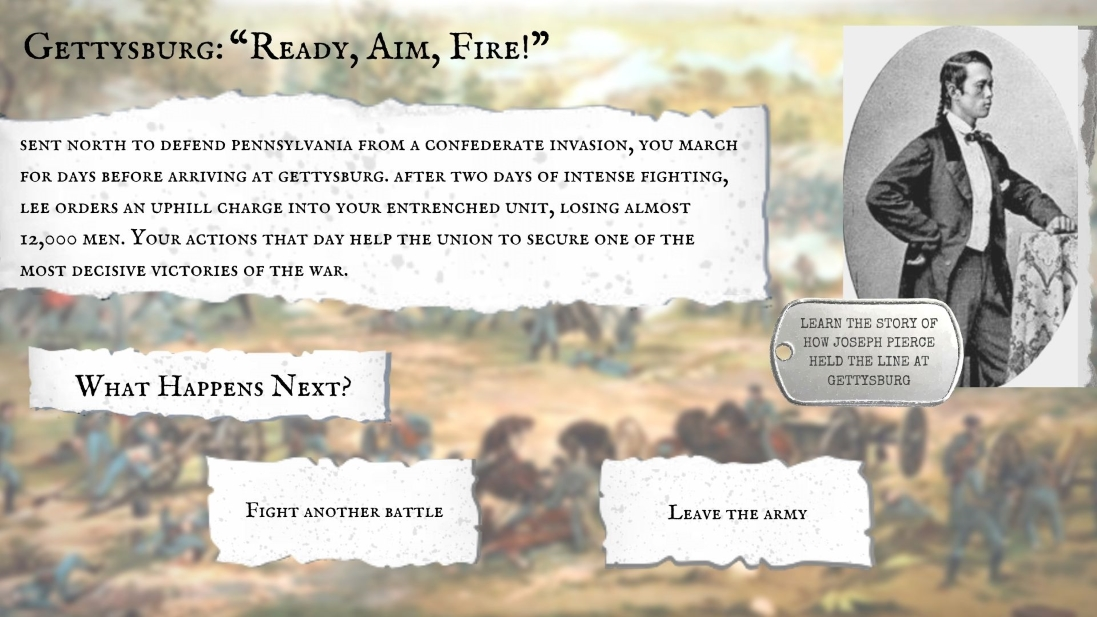
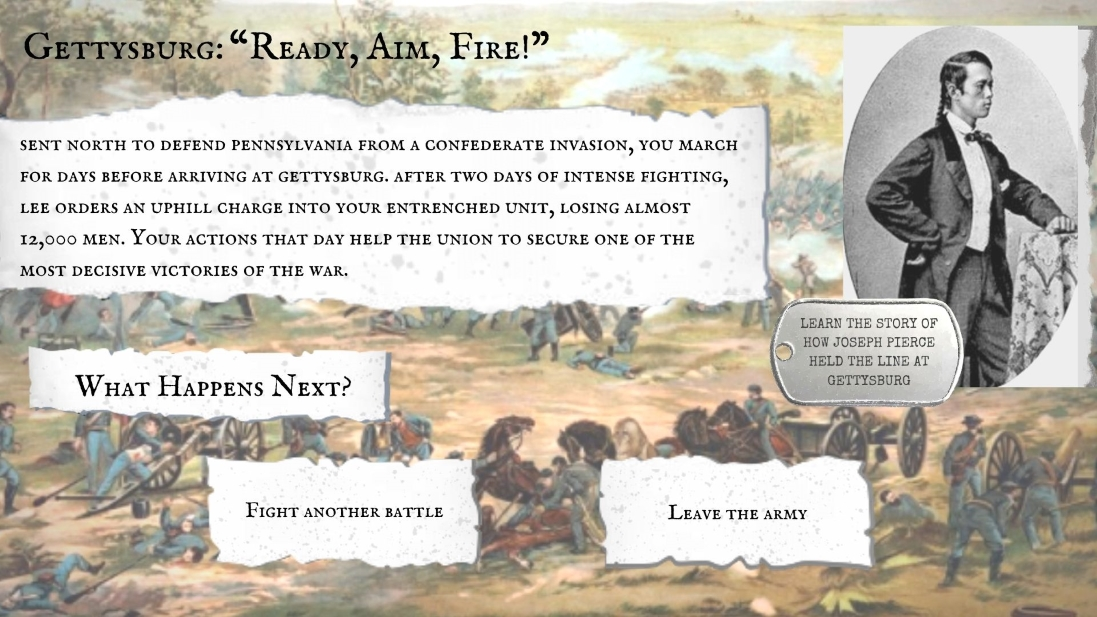
Making cosmetic changes

diff --git a/js/modal.js b/js/modal.js
@@ -1,135 +1,25 @@
-// // Get the modals
-// var modals = document.getElementsByClassName("modal");
+// Get the modal
+var modal = document.getElementById("myModal");
 
-// // Get the button that opens the modal
-// var btn = document.getElementsByClassName("modal-class");
+// Get the button that opens the modal
+var btn = document.getElementById("trigger-modal");
 
-// // Get the <span> element that closes the modal
-// var span = document.getElementsByClassName("close");
+// Get the <span> element that closes the modal
+var span = document.getElementsByClassName("close")[0];
 
-// // When the user clicks on the button, open the modal
-// for (var i = 0; i < btn.length; i++) {
-//   var thisBtn = btn[i];
-//   var thisClose = span[i];
-//   var modal = modals[i];
-//   thisBtn.addEventListener("click", function(){
-//     modal.style.display = "block";
-//   }, false);
-//   thisClose.addEventListener("click", function() {
-//     modal.style.display = "none";
-//   })
-// }
+// When the user clicks on the button, open the modal
+btn.onclick = function() {
+  modal.style.display = "block";
+}
 
+// When the user clicks on <span> (x), close the modal
+span.onclick = function() {
+  modal.style.display = "none";
+}
 
-// for (var i = 1 ; i < 9 ; i ++ ) {
-//   var modal = document.getElementById("myModal" + i);
-//   // Get the button that opens the modal
-//   var btn = document.getElementById("trigger-modal-" + i);
-  
-//   // Get the <span> element that closes the modal
-//   console.log(modal);
-//   // // When the user clicks on the button, open the modal
-//   // btn.onclick = function() {
-//   //   modal.style.display = "block";
-//   // }
-//   var span = document.getElementsByClassName("close" + i);
-  
-//   // // When the user clicks on <span> (x), close the modal
-//   // span.onclick = function() {
-//   //   modal.style.display = "none";
-//   // }
-  
-//   btn.addEventListener("click", function(){
-//     modal.style.display = "block";
-//   }, false);
-
-//   span[0].addEventListener("click", function() {
-//     modal.style.display = "none";
-//   })
-
-//   // When the user clicks anywhere outside of the modal, close it
-//   window.onclick = function(event) {
-//     if (event.target == modal) {
-//       modal.style.display = "none";
-//     }
-//   }
-// }
-var modal1 = document.getElementById("myModal1");
-var btn1 = document.getElementById("trigger-modal-1");
-var span1 = document.getElementsByClassName("close1")[0];
-btn1.addEventListener("click", function(){
-  modal1.style.display = "block";
-}, false);
-span1.addEventListener("click", function() {
-  modal1.style.display = "none";
-})
-
-var modal2 = document.getElementById("myModal2");
-var btn2 = document.getElementById("trigger-modal-2");
-var span2 = document.getElementsByClassName("close2")[0];
-btn2.addEventListener("click", function(){
-  modal2.style.display = "block";
-}, false);
-span2.addEventListener("click", function() {
-  modal2.style.display = "none";
-})
-
-var modal3 = document.getElementById("myModal3");
-var btn3 = document.getElementById("trigger-modal-3");
-var span3 = document.getElementsByClassName("close3")[0];
-btn3.addEventListener("click", function(){
-  modal3.style.display = "block";
-}, false);
-span3.addEventListener("click", function() {
-  modal3.style.display = "none";
-})
-
-var modal4 = document.getElementById("myModal4");
-var btn4 = document.getElementById("trigger-modal-4");
-var span4 = document.getElementsByClassName("close4")[0];
-btn4.addEventListener("click", function(){
-  modal4.style.display = "block";
-}, false);
-span4.addEventListener("click", function() {
-  modal4.style.display = "none";
-})
-
-var modal5 = document.getElementById("myModal5");
-var btn5 = document.getElementById("trigger-modal-5");
-var span5 = document.getElementsByClassName("close5")[0];
-btn5.addEventListener("click", function(){
-  modal5.style.display = "block";
-}, false);
-span5.addEventListener("click", function() {
-  modal5.style.display = "none";
-})
-
-var modal6 = document.getElementById("myModal6");
-var btn6 = document.getElementById("trigger-modal-6");
-var span6 = document.getElementsByClassName("close6")[0];
-btn6.addEventListener("click", function(){
-  modal6.style.display = "block";
-}, false);
-span6.addEventListener("click", function() {
-  modal6.style.display = "none";
-})
-
-var modal7 = document.getElementById("myModal7");
-var btn7 = document.getElementById("trigger-modal-7");
-var span7 = document.getElementsByClassName("close7")[0];
-btn7.addEventListener("click", function(){
-  modal7.style.display = "block";
-}, false);
-span7.addEventListener("click", function() {
-  modal7.style.display = "none";
-})
-
-var modal8 = document.getElementById("myModal8");
-var btn8 = document.getElementById("trigger-modal-8");
-var span8 = document.getElementsByClassName("close8")[0];
-btn8.addEventListener("click", function(){
-  modal8.style.display = "block";
-}, false);
-span8.addEventListener("click", function() {
-  modal8.style.display = "none";
-})
+// When the user clicks anywhere outside of the modal, close it
+window.onclick = function(event) {
+  if (event.target == modal) {
+    modal.style.display = "none";
+  }
+}

diff --git a/js/modal2.js b/js/modal2.js
@@ -1,0 +1,79 @@
+var modal1 = document.getElementById("myModal1");
+var btn1 = document.getElementById("trigger-modal-1");
+var span1 = document.getElementsByClassName("close1")[0];
+btn1.addEventListener("click", function(){
+  modal1.style.display = "block";
+}, false);
+span1.addEventListener("click", function() {
+  modal1.style.display = "none";
+})
+
+var modal2 = document.getElementById("myModal2");
+var btn2 = document.getElementById("trigger-modal-2");
+var span2 = document.getElementsByClassName("close2")[0];
+btn2.addEventListener("click", function(){
+  modal2.style.display = "block";
+}, false);
+span2.addEventListener("click", function() {
+  modal2.style.display = "none";
+})
+
+var modal3 = document.getElementById("myModal3");
+var btn3 = document.getElementById("trigger-modal-3");
+var span3 = document.getElementsByClassName("close3")[0];
+btn3.addEventListener("click", function(){
+  modal3.style.display = "block";
+}, false);
+span3.addEventListener("click", function() {
+  modal3.style.display = "none";
+})
+
+var modal4 = document.getElementById("myModal4");
+var btn4 = document.getElementById("trigger-modal-4");
+var span4 = document.getElementsByClassName("close4")[0];
+btn4.addEventListener("click", function(){
+  modal4.style.display = "block";
+}, false);
+span4.addEventListener("click", function() {
+  modal4.style.display = "none";
+})
+
+var modal5 = document.getElementById("myModal5");
+var btn5 = document.getElementById("trigger-modal-5");
+var span5 = document.getElementsByClassName("close5")[0];
+btn5.addEventListener("click", function(){
+  modal5.style.display = "block";
+}, false);
+span5.addEventListener("click", function() {
+  modal5.style.display = "none";
+})
+
+var modal6 = document.getElementById("myModal6");
+var btn6 = document.getElementById("trigger-modal-6");
+var span6 = document.getElementsByClassName("close6")[0];
+btn6.addEventListener("click", function(){
+  modal6.style.display = "block";
+}, false);
+span6.addEventListener("click", function() {
+  modal6.style.display = "none";
+})
+
+var modal7 = document.getElementById("myModal7");
+var btn7 = document.getElementById("trigger-modal-7");
+var span7 = document.getElementsByClassName("close7")[0];
+btn7.addEventListener("click", function(){
+  modal7.style.display = "block";
+}, false);
+span7.addEventListener("click", function() {
+  modal7.style.display = "none";
+})
+
+var modal8 = document.getElementById("myModal8");
+var btn8 = document.getElementById("trigger-modal-8");
+var span8 = document.getElementsByClassName("close8")[0];
+btn8.addEventListener("click", function(){
+  modal8.style.display = "block";
+}, false);
+span8.addEventListener("click", function() {
+  modal8.style.display = "none";
+})

diff --git a/css/style.css b/css/style.css
@@ -579,6 +579,56 @@ h1, h2, h3, h4, h5,
   background: -webkit-gradient(linear, left top, right top, from(#4286f4), to(#42e2f4));
   background: linear-gradient(to right, #4286f4 0%, #42e2f4 100%);
   filter: progid:DXImageTransform.Microsoft.gradient( startColorstr='#4286f4', endColorstr='#42e2f4', GradientType=1 ); }
+  .site-blocks-cover-1 {
+    background-size: cover;
+    background-size: 120% 200%;
+    background-repeat: no-repeat;
+    background-position: top;
+    position: relative; }
+    .site-blocks-cover:after {
+      position: absolute;
+      /* background-image: url("../images/svg_1.svg"); */
+      content: "";
+      right: 0; }
+    .site-blocks-cover.overlay {
+      position: relative; }
+      .site-blocks-cover.overlay:before {
+        position: absolute;
+        content: "";
+        left: 0;
+        bottom: 0;
+        right: 0;
+        top: 0;
+        background: rgba(0, 0, 0, 0.2); }
+    .site-blocks-cover .player {
+      position: absolute;
+      bottom: -250px;
+      width: 100%; }
+    .site-blocks-cover, .site-blocks-cover > .container > .row {
+      min-height: 600px;
+      height: calc(80vh); 
+    }
+    .site-blocks-cover.inner-page-cover, .site-blocks-cover.inner-page-cover > .container > .row {
+      min-height: 400px;
+      height: calc(20vh); }
+    .site-blocks-cover h1 {
+      font-size: 3.5rem;
+      font-weight: 400;
+      color: #000;
+      font-weight: 900; }
+      @media (max-width: 991.98px) {
+        .site-blocks-cover h1 {
+          font-size: 2rem; } }
+    .site-blocks-cover p {
+      color: #6c757d;
+      font-size: 1rem;
+      font-weight: 300; }
+    .site-blocks-cover .intro-text {
+      font-size: 16px;
+      line-height: 1.5; }
+    @media (max-width: 991.98px) {
+      .site-blocks-cover .display-1 {
+        font-size: 3rem; } }
 
 .site-blocks-cover {
   background-size: cover;
@@ -607,7 +657,7 @@ h1, h2, h3, h4, h5,
     width: 100%; }
   .site-blocks-cover, .site-blocks-cover > .container > .row {
     min-height: 600px;
-    height: calc(80vh); 
+    height: calc(100vh); 
   }
   .site-blocks-cover.inner-page-cover, .site-blocks-cover.inner-page-cover > .container > .row {
     min-height: 400px;

diff --git a/index.html b/index.html
@@ -107,10 +107,7 @@
       <div class="container">
         <div class="row mb-5 justify-content-center text-center"  data-aos="fade-up">
           <div class="col-7 text-center  mb-5">
-            <h4 >"I volunteered in spite of the advice of my friends against it, for I had felt that the North was right in opposing slavery.” - Hong Neok Woo, Massachusetts 52nd</h4>
-            <br/>
-            <p class="lead">During the Civil War, many Asian Americans bravely volunteered to fight for the abolition of slavery. Despite their valorous service, many Asian Americans veterans continued to be discriminated against after the Civil War. This discrimination was institutionalized through law, which revoked the citizenship of Asian American Civil War veterans. This AI powered interactive activity honors the heroism of these soldiers, who were willing to give their lives to a country that turned its back on them. 
-            </p>
+            <p class="lead">During the Civil War, many Asian Americans bravely volunteered to fight for the abolition of slavery. Despite their valorous service, many Asian Americans veterans continued to be discriminated against after the Civil War. This discrimination was institutionalized through law, which revoked the citizenship of Asian American Civil War veterans. This AI powered interactive activity honors the heroism of these soldiers, who were willing to give their lives to a country that turned its back on them.</p>
             <div>
               <a href="intro_1.html" class="btn btn-primary mr-2 mb-2">Play!</a>
             </div>

diff --git a/individual_stories.html b/individual_stories.html
@@ -77,7 +77,7 @@
       
     </header>
 
-    <div class="site-blocks-cover"> 
+    <div class="site-blocks-cover-1"> 
       <!-- style="overflow: hidden;" -->
         <div class="container">
           <div class="row align-items-center justify-content-center">
@@ -265,7 +265,7 @@
 <script src="js/aos.js"></script>
 <script src="js/jquery.fancybox.min.js"></script>
 <script src="js/jquery.sticky.js"></script>
-<script src="js/modal.js"></script>
+<script src="js/modal2.js"></script>
 <script src="js/main.js"></script>
 <script src="js/scrollView.js"></script>
 

diff --git a/antietam.html b/antietam.html
@@ -75,6 +75,8 @@
     <div class="site-blocks-cover" style="overflow: hidden;">
       <br/>
       <div id="antietam-scene">
+        <br/>
+        <br/>
         <div id ="container">
             <button onclick="location.href='mcclellan_mead_burnside.html'" type="button" id ="choose-another-battle"></button>
             <button onclick="leaveArmy(); return false;" type="button" id ="leave-the-army"></button>

diff --git a/fredericksburg.html b/fredericksburg.html
@@ -74,6 +74,8 @@
     </header>
 
     <div class="site-blocks-cover" style="overflow: hidden;">
+      <br/>
+      <br/>
       <div id="fredericksburg-scene">
         <div id ="container">
             <button onclick="location.href='mcclellan_mead_burnside.html'" type="button" id ="choose-another-battle"></button>

diff --git a/gettysburg.html b/gettysburg.html
@@ -74,6 +74,7 @@
     </header>
 
     <div class="site-blocks-cover" style="overflow: hidden;">
+      <br/>
       <div id="gettysburg-scene">
         <div id ="container">
             <button onclick="location.href='mcclellan_mead_burnside.html'" type="button" id ="choose-another-battle"></button>

diff --git a/choose_birthplace.html b/choose_birthplace.html
@@ -74,6 +74,7 @@
     </header>
     
     <div class="site-blocks-cover" style="overflow: hidden;">
+      <br/>
       <div id="choose-birthplace">
         <div id ="container">
           <button onclick="location.href='weymouth.html'" type="button" id ="transparent-button-charleston"></button>

diff --git a/join_army_earlier.html b/join_army_earlier.html
@@ -74,6 +74,7 @@
     </header>
 
     <div class="site-blocks-cover" style="overflow: hidden;">
+      <br/>
       <div id="join-army-earlier">
         <div id ="container">
           <button onclick="location.href='mcclellan_mead_burnside.html'" type="button" id ="btn-join-army"></button>

diff --git a/coming_to_america_via_missionary.html b/coming_to_america_via_missionary.html
@@ -74,6 +74,7 @@
     </header>
 
     <div class="site-blocks-cover" style="overflow: hidden;">
+      <br/>
       <div id="canton-missionary">
         <div id ="container">
           <button onclick="location.href='farmer_in_america.html'" type="button" id ="weymouth-left-btn"></button>

diff --git a/army_as_north.html b/army_as_north.html
@@ -74,6 +74,7 @@
     </header>
 
     <div class="site-blocks-cover" style="overflow: hidden;">
+      <br/>
       <div id="join-army-as-north">
         <div id ="container">
           <button onclick="location.href='join_army_earlier.html'" type="button" id ="canton-left-btn"></button>
